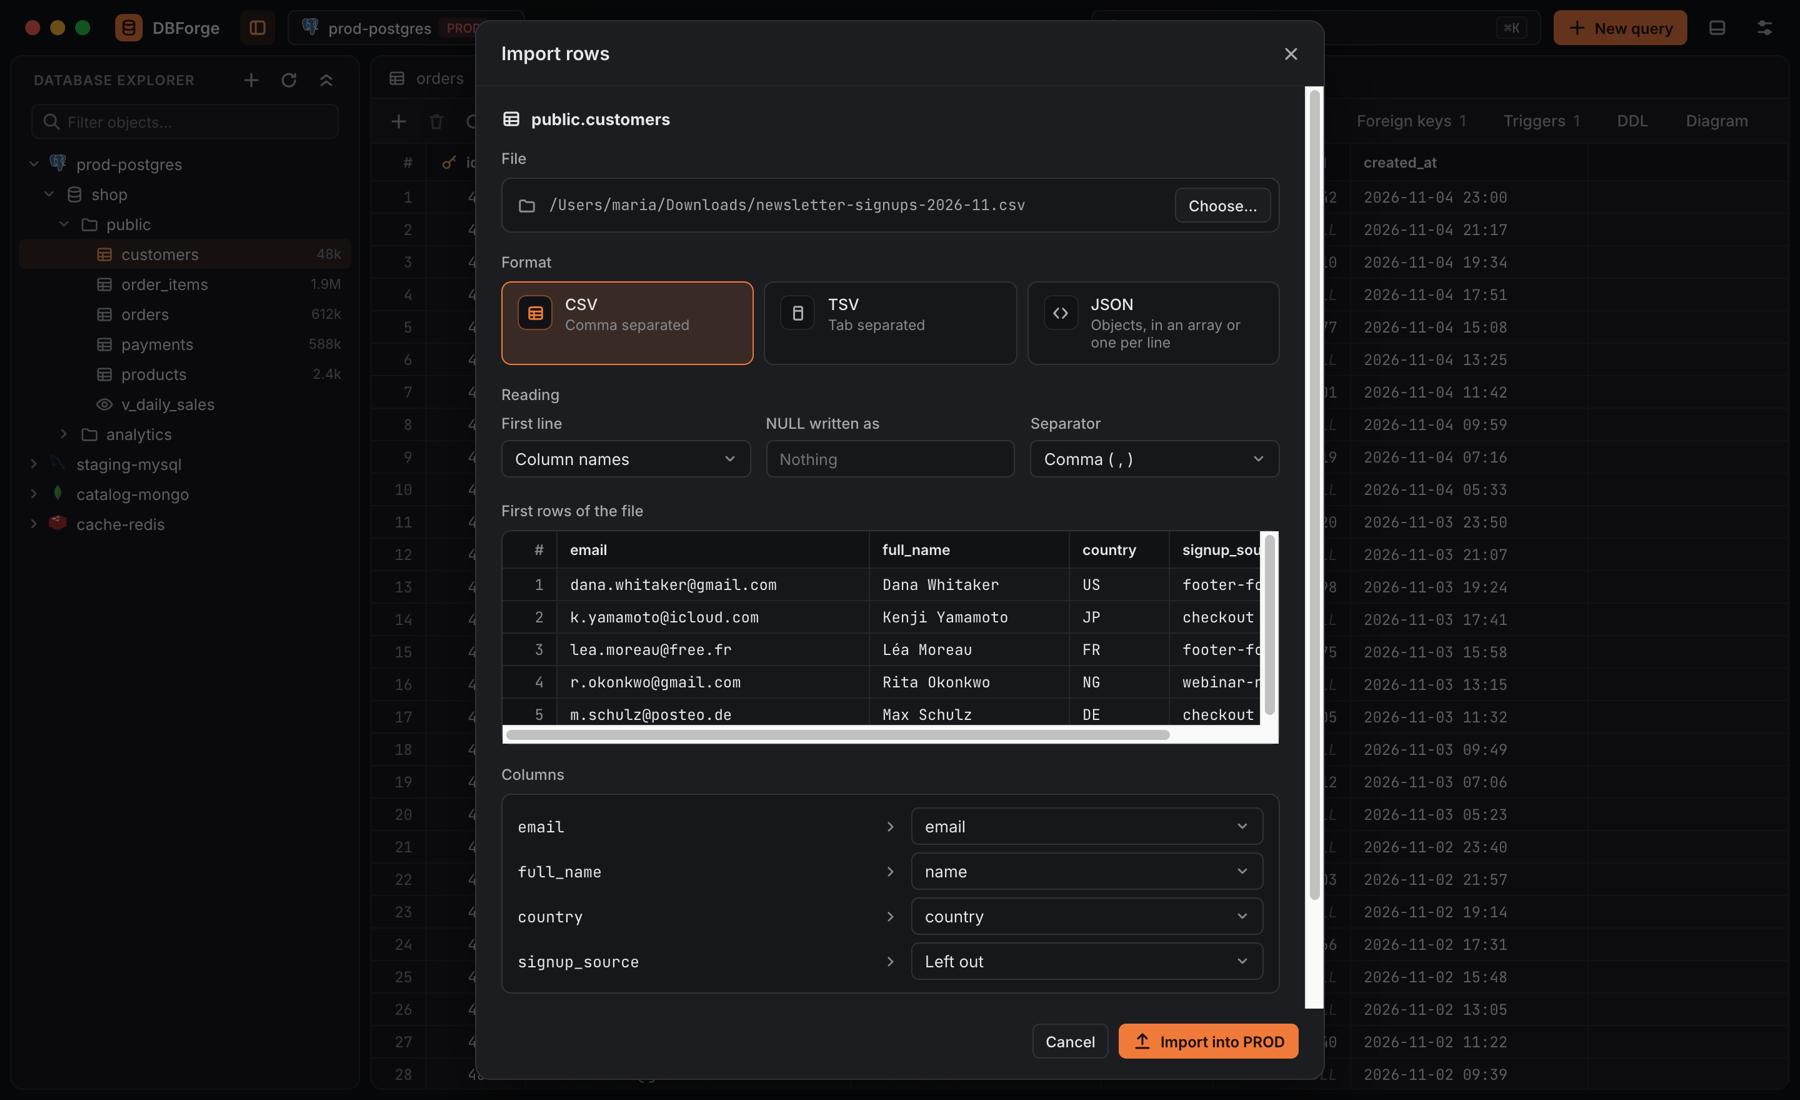
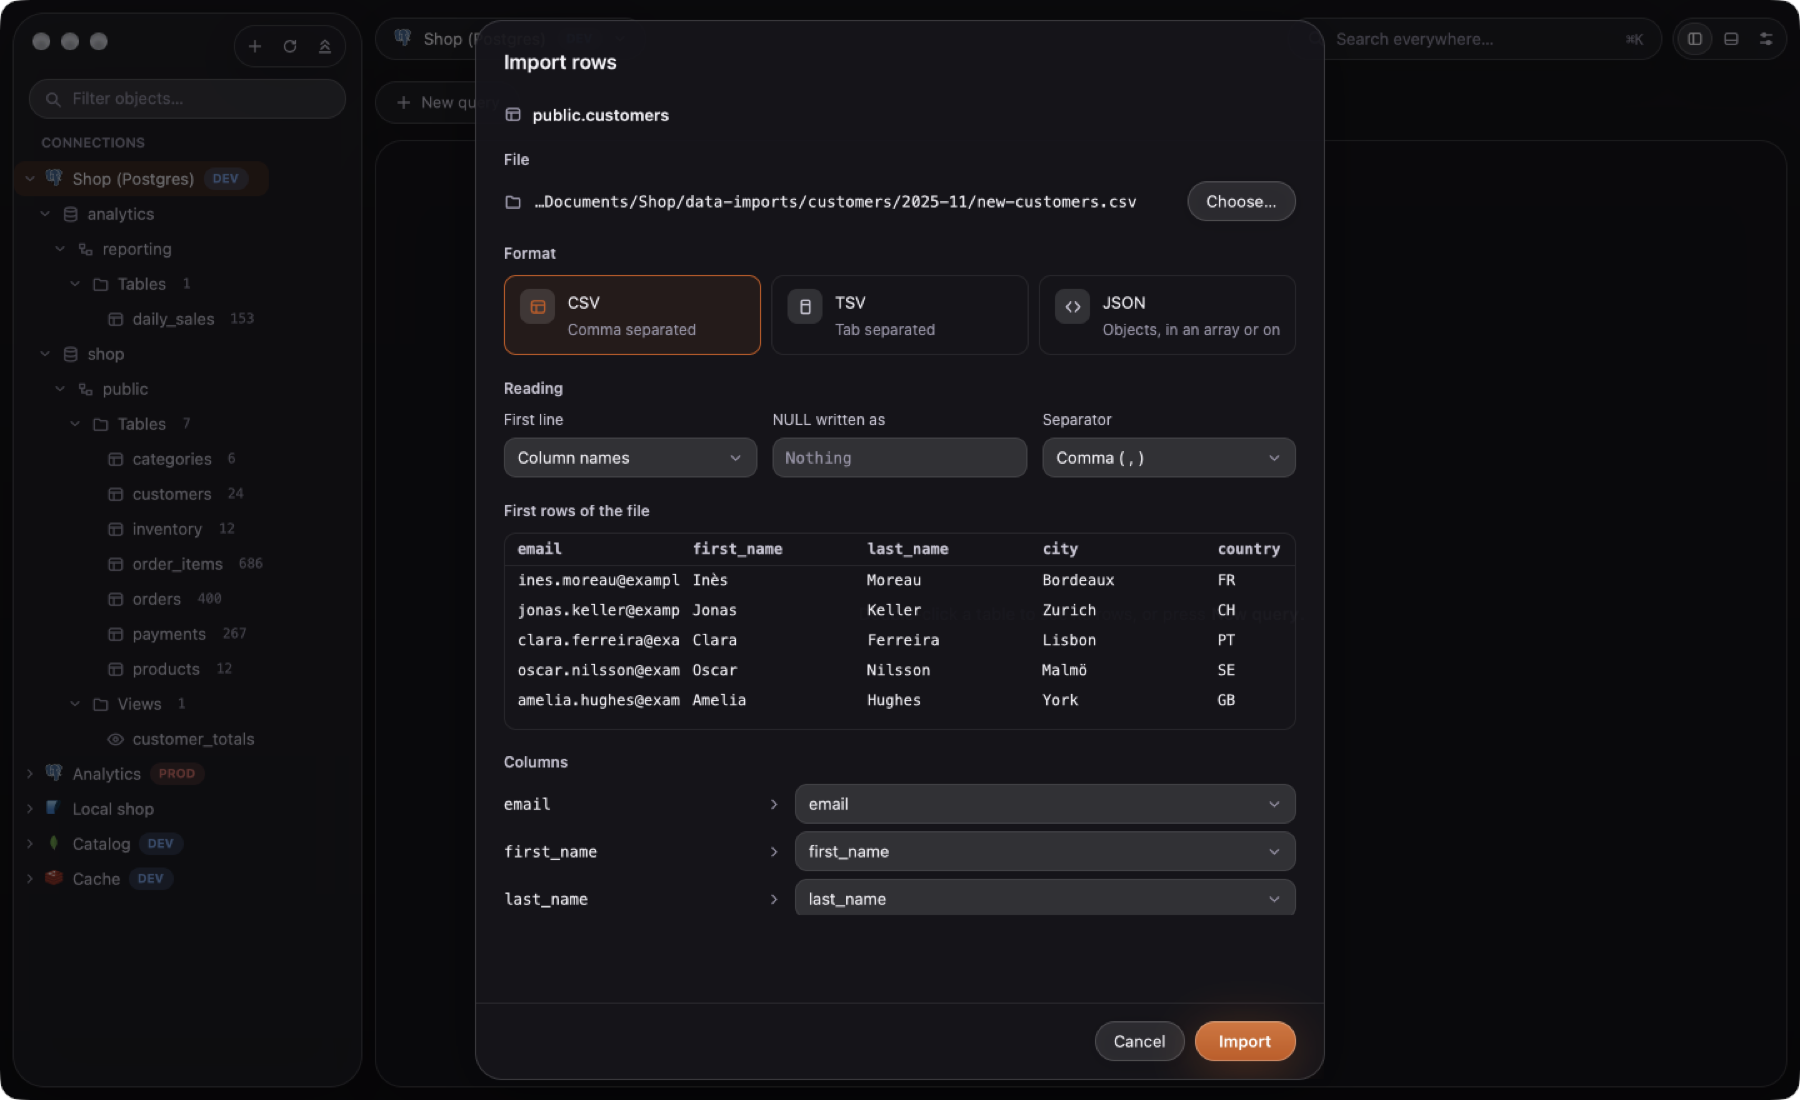
docs(readme): screenshots of the native app
Replace every screenshot with the GPUI app on demo data, and add the DBFORGE_FILTER and DBFORGE_ORDER development hooks used to capture a filtered table.

diff --git a/crates/app/src/shell/mod.rs b/crates/app/src/shell/mod.rs
@@ -638,6 +638,7 @@ impl Shell {
     /// `#menu` a cell's menu, `#edit`/`#date` a cell's editor (text, date);
     /// `#columns`, `#indexes`, `#foreign-keys`, `#triggers`, `#ddl` or
     /// `#diagram` open the table's tab on that view instead of its rows.
+    /// `DBFORGE_FILTER` and `DBFORGE_ORDER` open the rows filtered and ordered.
     /// On MongoDB and Cosmos DB, `#documents` shows the rows as documents,
     /// `#document-edits` with pending edits, `#document-edit` with one open
     /// in its editor, and `#document-menu` with a document's menu.
@@ -1016,9 +1017,14 @@ impl Shell {
             Some("diagram") => Some(TableTabView::Diagram),
             _ => None,
         };
+        // `DBFORGE_FILTER` and `DBFORGE_ORDER`: the rows shown filtered or ordered, as the filter bar would.
+        let filter = std::env::var("DBFORGE_FILTER").unwrap_or_default();
+        let order = std::env::var("DBFORGE_ORDER").unwrap_or_default();
+        let filter =
+            (!filter.is_empty() || !order.is_empty()).then_some(dbforge_core::drivers::RowFilter { filter, order });
         let page = self
             .workspace
-            .update(cx, |workspace, cx| workspace.open_table(&connection_id, table, None, view, window, cx));
+            .update(cx, |workspace, cx| workspace.open_table(&connection_id, table, filter, view, window, cx));
         let Some(page) = page else { return eprintln!("DBFORGE_OPEN: no connection {connection_id}") };
         if let Some(seed) = seed.filter(|_| view.is_none()) {
             let data = page.read(cx).data().clone();

diff --git a/README.md b/README.md
@@ -37,9 +37,6 @@
   <img src="docs/images/workspace.png" alt="The workspace: the explorer, a SQL console and its results">
 </p>
 
-> The screenshots show the previous (web-based) version of DBForge. The native app has the same layout and
-> features with its new look; the images are due to be retaken.
-
 ## Install
 
 **macOS:** download `DBForge-x.y.z.dmg` from the [latest release](https://github.com/Juan-Motta/dbforge/releases/latest), open it and drag **DBForge** to **Applications**. It runs on Apple silicon and Intel Macs with **macOS 10.15.7** or later, signed and notarized by Apple.
@@ -201,6 +198,7 @@ These environment variables help while working on the app:
 | `DBFORGE_DIR` | Keeps the configuration and data in `$DBFORGE_DIR/config` and `$DBFORGE_DIR/data` instead of the installed app's folders, so a development run never touches your real connections |
 | `DBFORGE_OPEN` | Debug builds: opens a view or dialog at start, such as `settings#agents`, `palette`, `query:<connection id>#history` or `table:<connection id>/<path>#edits` (the full list is on `Shell::open_for_development` in `crates/app/src/shell/mod.rs`) |
 | `DBFORGE_SQL`, `DBFORGE_KEY` | Debug builds: the script a `DBFORGE_OPEN` console runs, the Redis key a key browser selects |
+| `DBFORGE_FILTER`, `DBFORGE_ORDER` | Debug builds: the `WHERE` (or MongoDB filter) and `ORDER BY` (or sort) a `DBFORGE_OPEN=table:…` opens its rows with |
 | `DBFORGE_PICK` | Debug builds: the path file dialogs answer with, instead of asking |
 | `DBFORGE_EXPAND` | Debug builds: connection ids (comma-separated, or `all`) whose whole tree opens at start |
 | `DBFORGE_UPDATE_ENDPOINT`, `DBFORGE_UPDATE_PUBKEY`, `DBFORGE_UPDATE_INSTALL_PATH` | Debug builds: try the updater against a local manifest (see [docs/RELEASING.md](docs/RELEASING.md)) |
